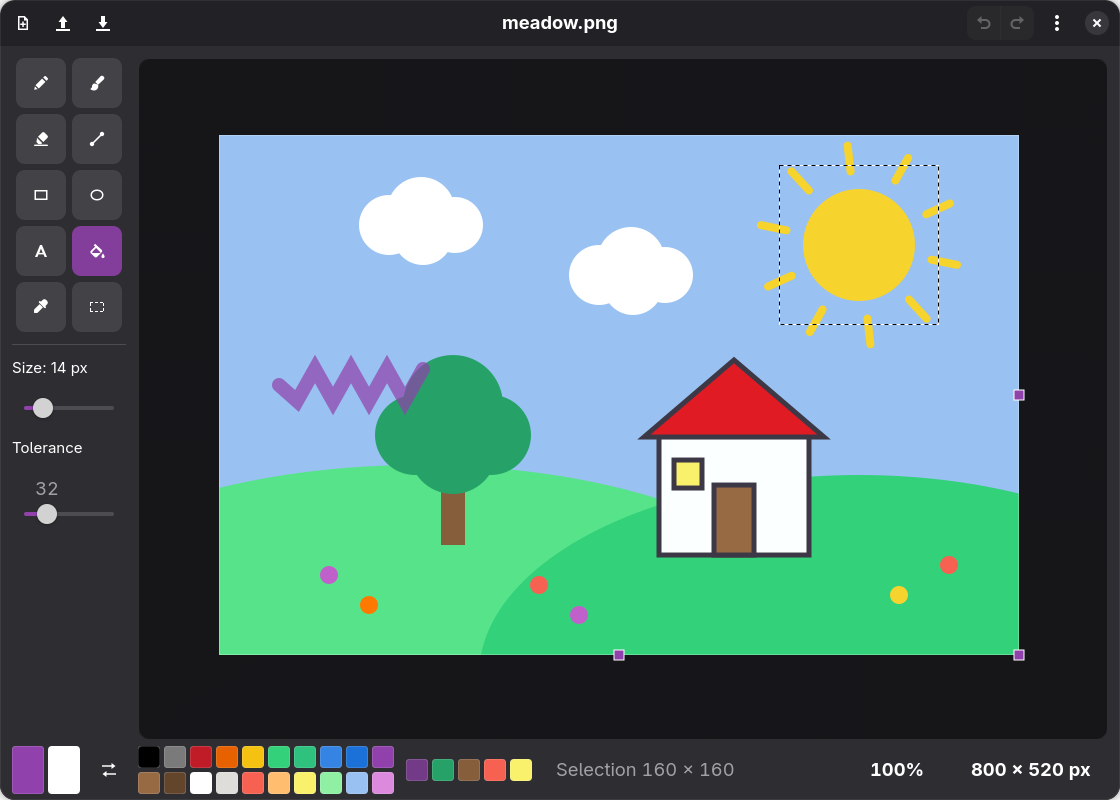
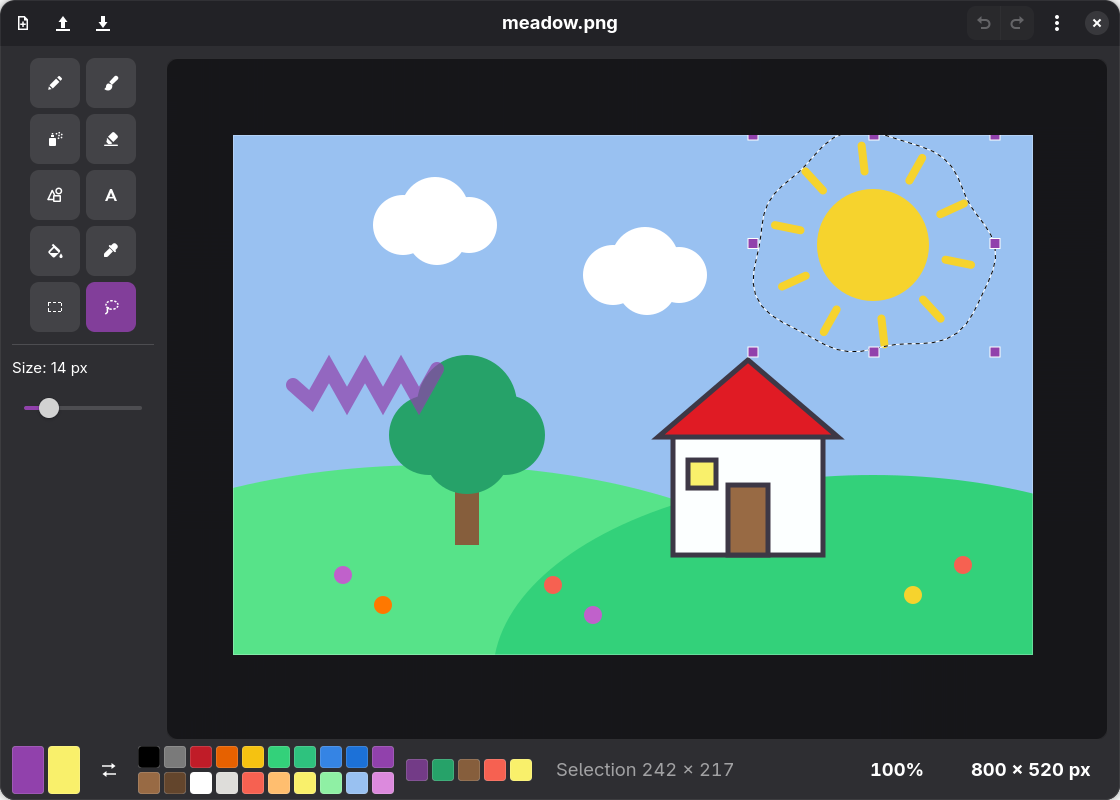
Release 1.1.0
Shapes, the airbrush, the lasso, the pixel grid, printing, crash recovery
and a bigger interface size. New screenshots show the new tools, and a
third one the interface at 150%.

diff --git a/tempera/__init__.py b/tempera/__init__.py
@@ -3,4 +3,4 @@
 
 APP_ID = "io.github.rafael0rueda.Tempera"
 APP_NAME = "Tempera"
-VERSION = "1.0.0"
+VERSION = "1.1.0"

diff --git a/README.md b/README.md
@@ -12,7 +12,7 @@ Each [release](https://github.com/rafael0rueda/tempera/releases) has a Flatpak b
 attached. Download `Tempera-<version>-x86_64.flatpak` and install it for your user:
 
 ```
-flatpak install --user Tempera-1.0.0-x86_64.flatpak
+flatpak install --user Tempera-1.1.0-x86_64.flatpak
 ```
 
 It runs on the GNOME 50 runtime, which Flatpak offers to fetch from Flathub if you do
@@ -377,6 +377,8 @@ resizing the canvas. The change applies straight away to every open window and i
 remembered. It adds to GNOME's own **Large Text** setting rather than replacing it; the
 image itself and the file dialogs, which the desktop draws, keep their usual size. When
 the window is too small for everything at a big size, the sidebar and palette scroll.
+
+![Tempera at 150% interface size, with the Shapes tool selected and its nine shapes and the Fill shape option under the size slider](data/screenshots/interface-size.png)
 
 ## Translations
 
